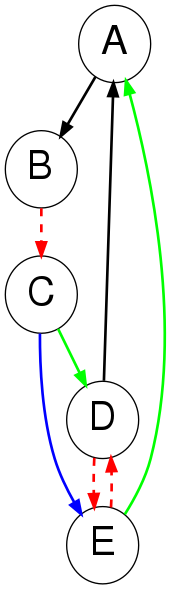
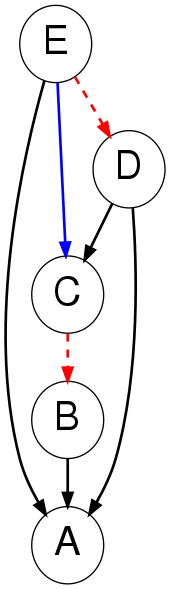
updated readme to new structure generation api, updated comparison plot

diff --git a/README.md b/README.md
@@ -11,14 +11,14 @@ pip install BayNet
 ### Generate a 10-node Forest Fire DAG, and parameters, then sample data from it:
 ```python
 from baynet import DAG
-dag = DAG.forest_fire(10, .5, seed=1) # Creates a DAG
+dag = DAG.generate("forest fire", 10, seed=1) # Creates a DAG
 dag.generate_discrete_parameters(alpha=5.0, min_levels=3, max_levels=5, seed=1) # Generates parameters
 data = dag.sample(1_000) # Samples data, returning a pandas DataFrame
 ```
 ### Generate a 5-node Barabasi-Albert (preferential attachment) graph and plot it:
 ```python
 from baynet import DAG
-DAG.barabasi_albert(5, seed=1).plot() # Saves 'DAG.png' in working directory
+DAG.generate("barabasi albert", 5, seed=1).plot() # Saves 'DAG.png' in working directory
 ```
 ![Example DAG.png](https://raw.githubusercontent.com/Stoffle/BayNet/master/example_DAG.png)
 
@@ -26,9 +26,9 @@ DAG.barabasi_albert(5, seed=1).plot() # Saves 'DAG.png' in working directory
 ### Generate two 5-node Erdos-Renyi DAGs and compare them:
 ```python
 from baynet import DAG, metrics
-dag_1 = DAG.erdos_renyi(5, 0.5, seed=1)
-dag_2 = DAG.erdos_renyi(5, 0.5)
-print(metrics.shd(dag_1, dag_2)) # prints DAG SHD, in this case 6
+dag_1 = DAG.generate("erdos_renyi", 5,seed=1)
+dag_2 = DAG.generate("erdos_renyi", 5)
+print(metrics.shd(dag_1, dag_2)) # prints DAG SHD, in this case 3
 print(metrics.shd(dag_1, dag_2, skeleton=True)) # prints skeleton SHD, in this case 3
 dag_1.compare(dag_2).plot() # saves 'comparison.png' in working directory
 ```
